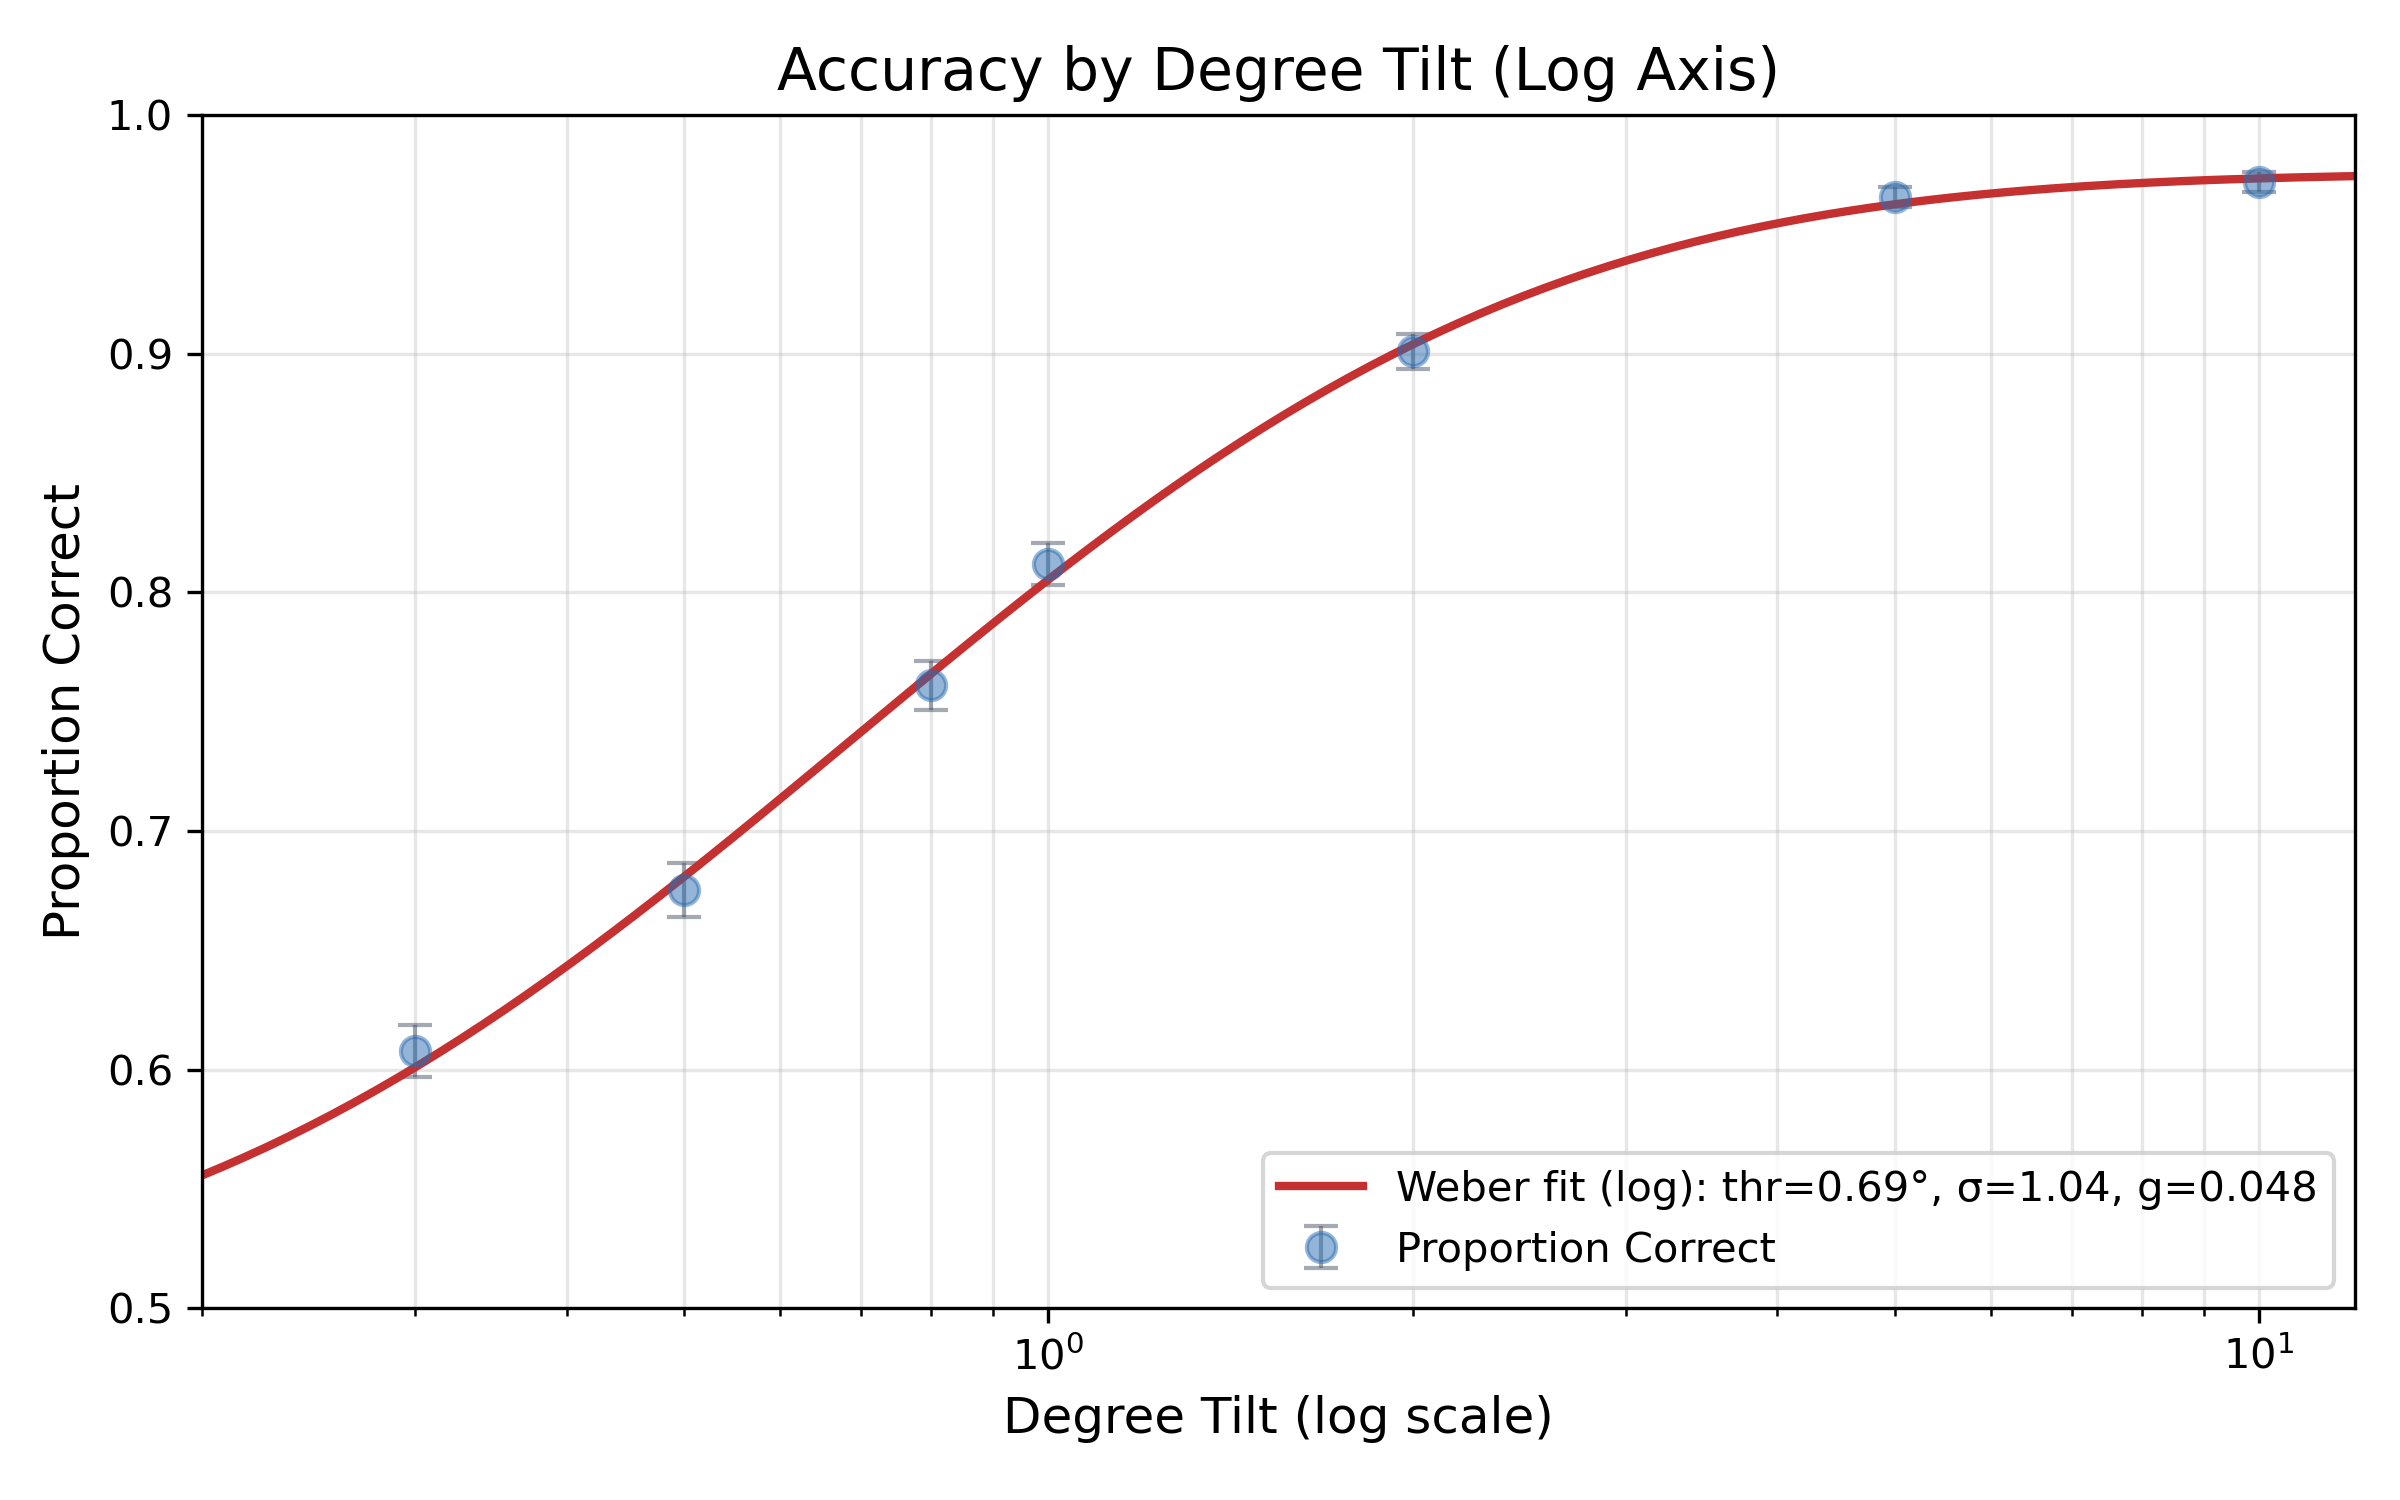
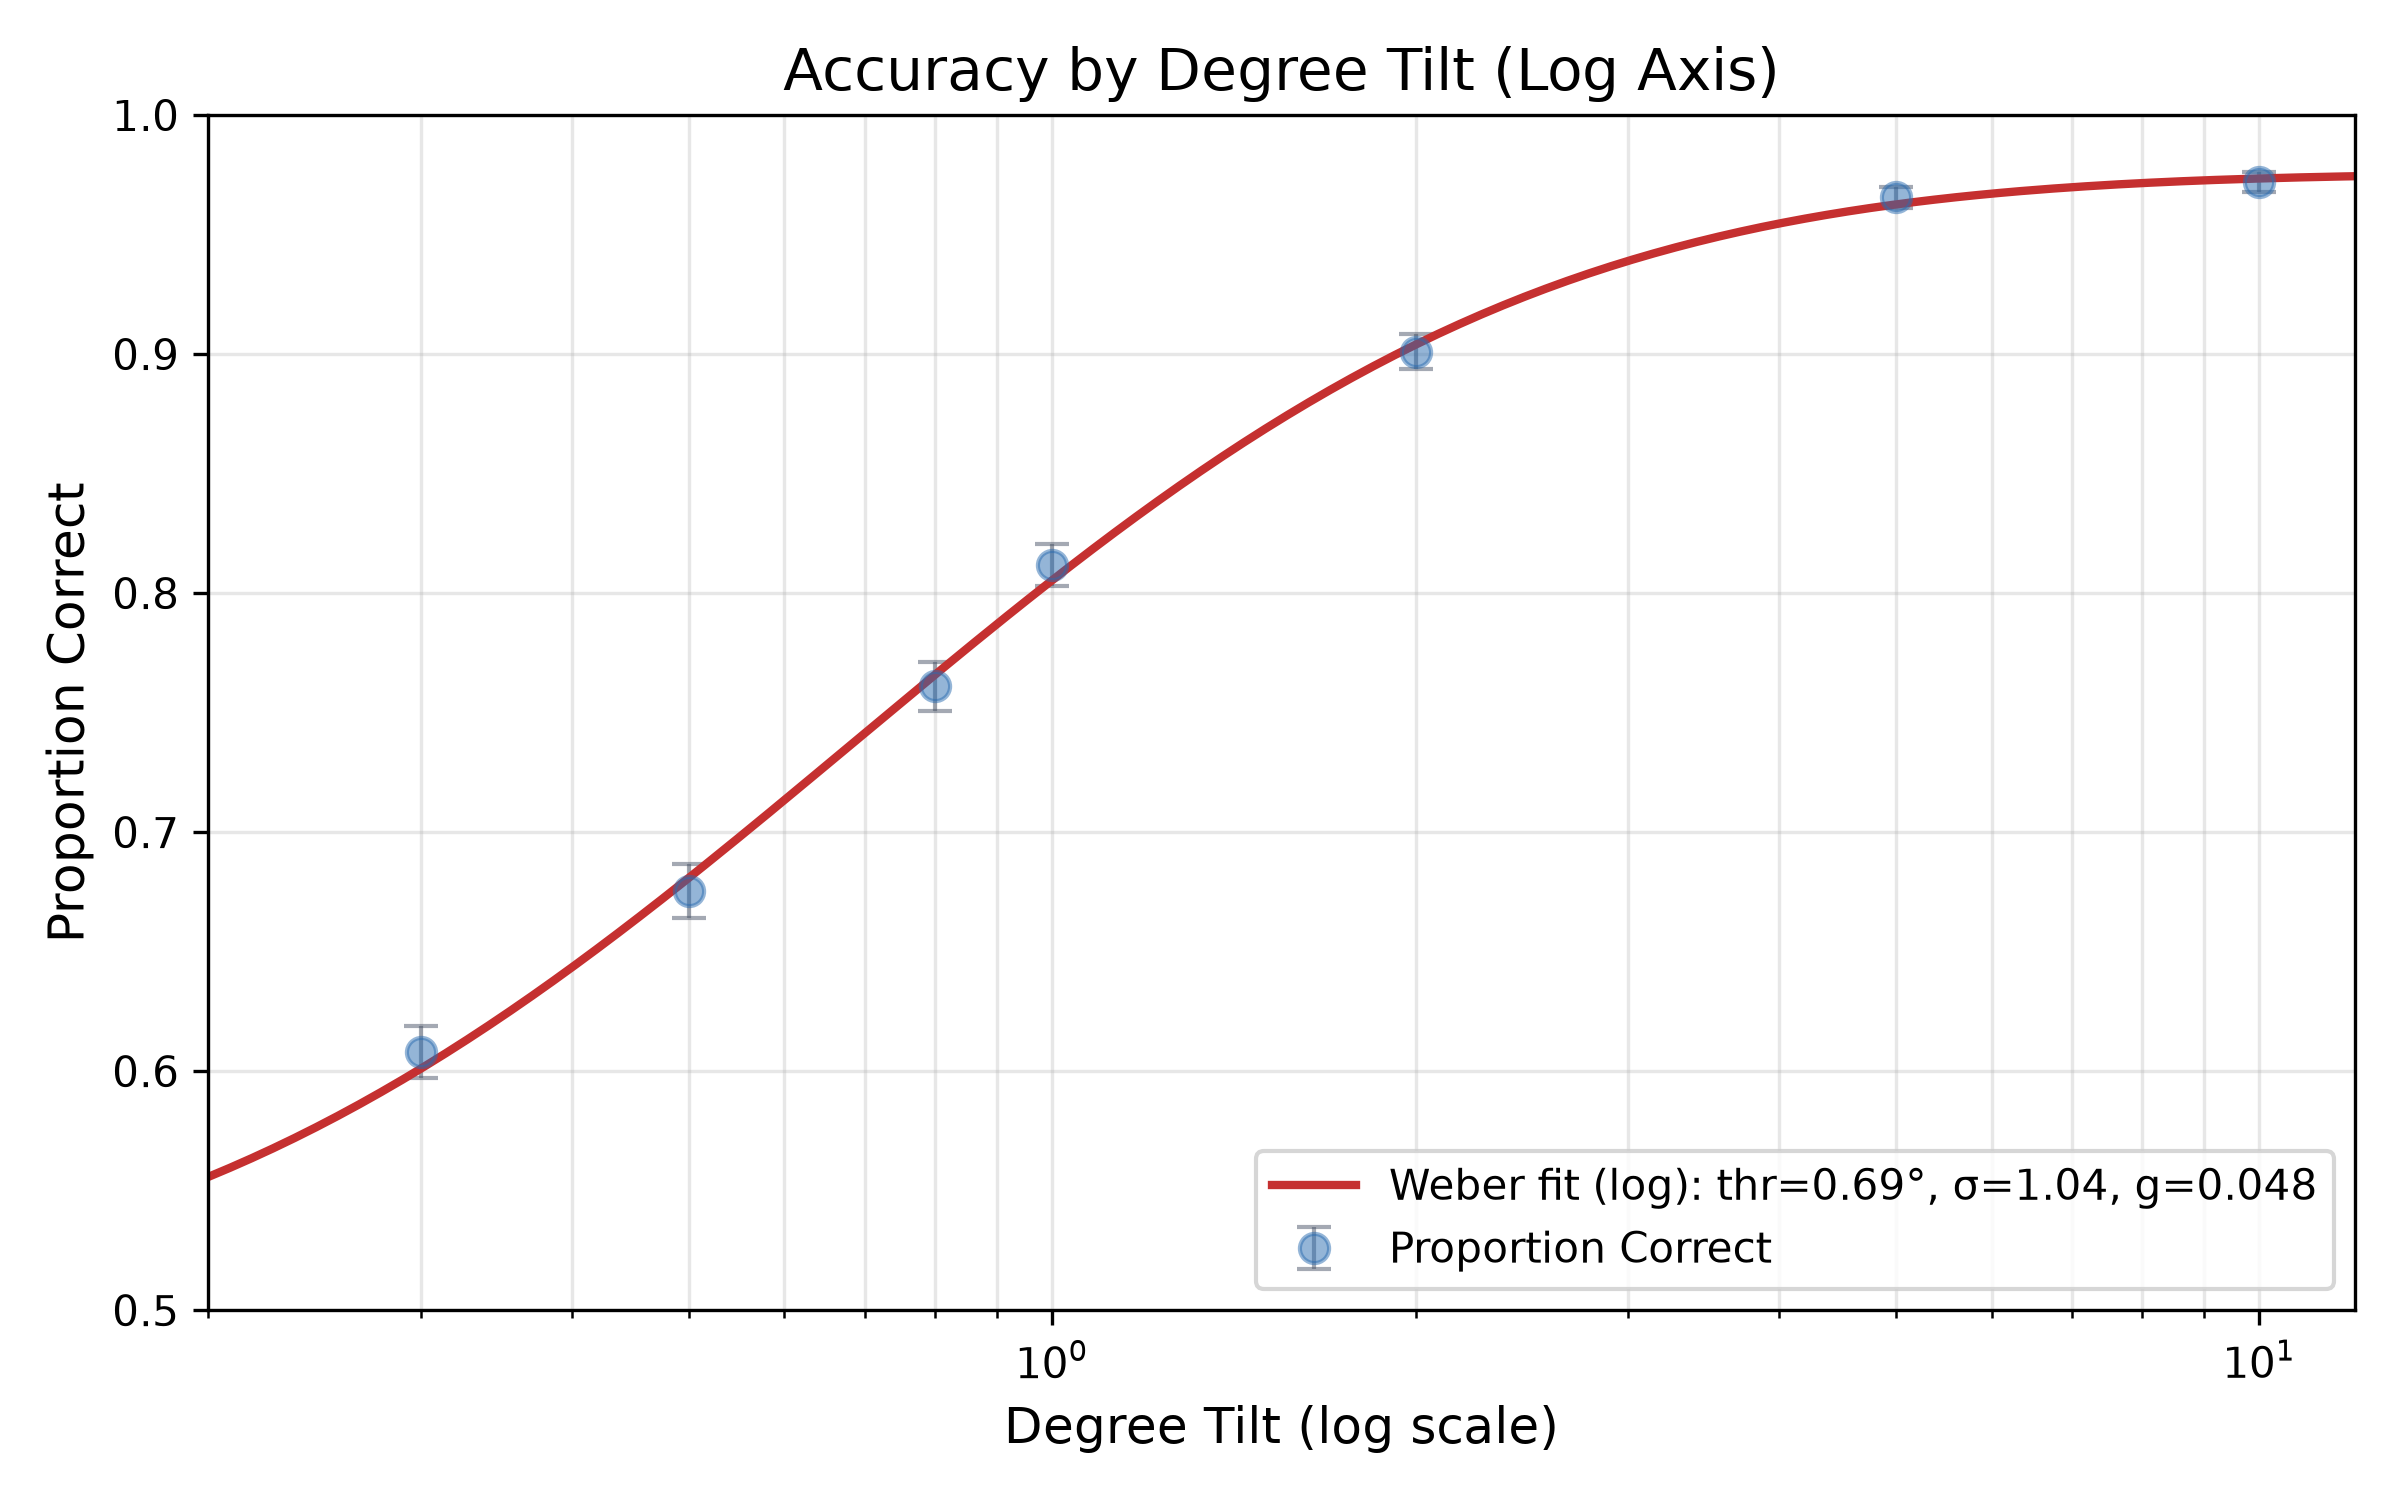
Additional Analysis for TLD

diff --git a/TiltLineDegree/analysis/analysis.py b/TiltLineDegree/analysis/analysis.py
@@ -152,7 +152,15 @@ df_valid_participants_correct_by_ratio["is_correct_ratio"] = df_valid_participan
 if DEBUG:
     print(df_valid_participants_correct_by_ratio)
 
-final_df = df_valid_participants_correct_by_ratio.groupby("degree_magnitude")["is_correct_ratio"].agg(["mean", "std"]).reset_index()
+# Export per-participant accuracy for each degree magnitude (one row per participant, one column per degree)
+
+accuracy_by_participant_degree = df_valid_participants_correct_by_ratio.pivot(index="prolific_id", columns="degree_magnitude", values="is_correct_ratio")
+
+accuracy_by_participant_degree.to_csv("tilt_line_degree_accuracy_by_participant_degree.csv")
+
+print("CSV saved to tilt_line_degree_accuracy_by_participant_degree.csv")
+
+final_df =df_valid_participants_correct_by_ratio.groupby("degree_magnitude")["is_correct_ratio"].agg(["mean", "std"]).reset_index()
 
 final_df["std_err"] = final_df["std"] / np.sqrt(NUM_VALID_PARTICIPANTS)
 
